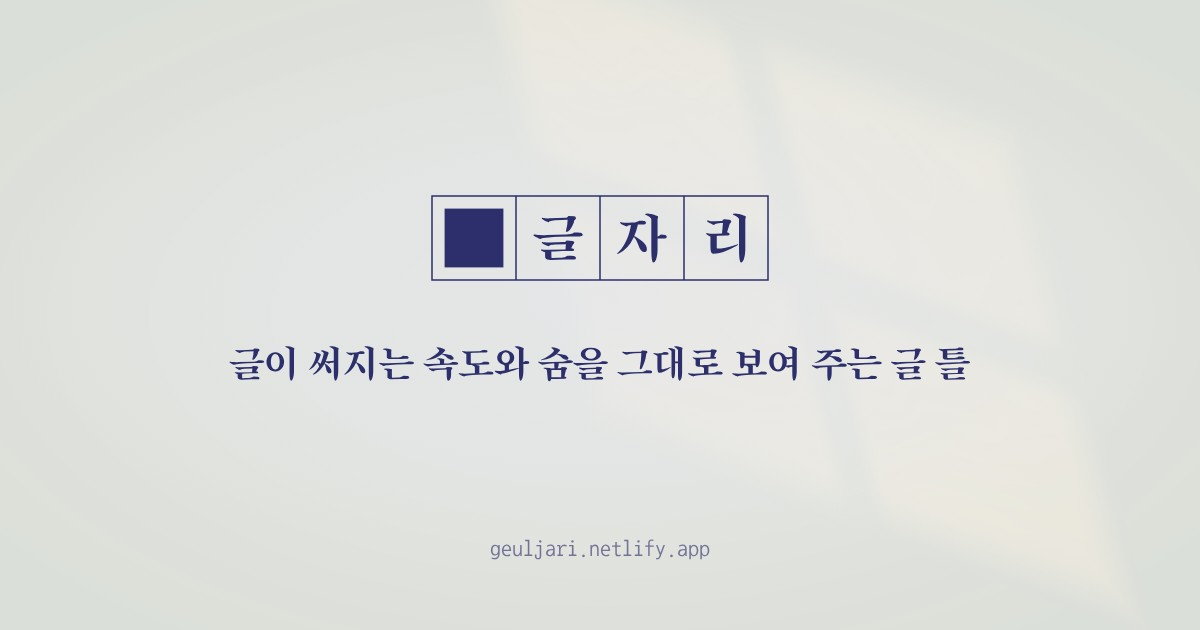
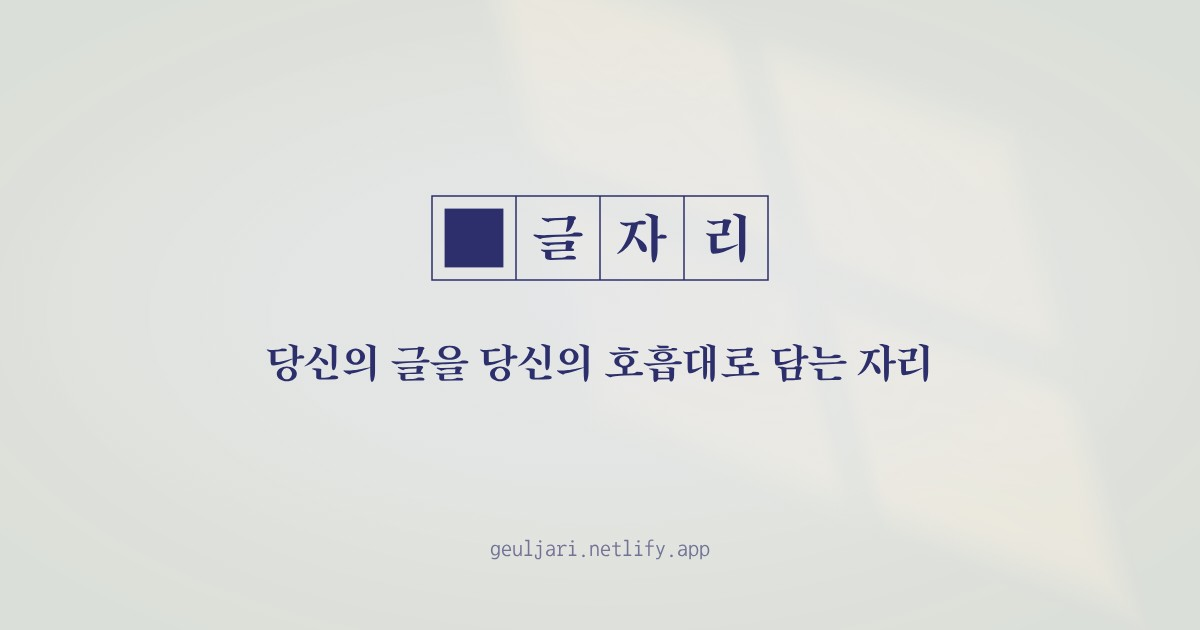
사이트 소개 문구를 '당신의 글을 당신의 호흡대로'로
- 제목·og 제목: 글자리 · 당신의 글을 당신의 호흡대로
- 설명·og 설명·구조화 데이터·noscript: 호흡대로 읽히도록 연출하는 글로그 편집기
- 사이트 카드 문구: 당신의 글을 당신의 호흡대로 담는 자리

Claude-Session: https://claude.ai/code/session_01ULBovWgP7trVUQkayYxnRh

Changed region(s): [[0.185, 0.5429, 0.8017, 0.6032]]

diff --git a/index.html b/index.html
@@ -3,8 +3,8 @@
 <head>
 <meta charset="utf-8">
 <meta name="viewport" content="width=device-width, initial-scale=1, viewport-fit=cover, interactive-widget=resizes-content">
-<title>글자리 · 쓰는 대로 움직이는 글로그 편집기</title>
-<meta name="description" content="글이 써지는 속도와 숨을 그대로 보여 주는 글 틀이에요. 글을 쓰고 쪽을 나누고 바탕·넘김·효과를 골라 글로그로 편집한 뒤 링크 하나로 발행해요.">
+<title>글자리 · 당신의 글을 당신의 호흡대로</title>
+<meta name="description" content="당신의 글이 당신의 호흡대로 읽히도록 쪽과 쉼, 넘김과 효과를 연출하는 글로그 편집기예요. 링크 하나로 발행해 공유해요.">
 <link rel="canonical" href="https://geuljari.netlify.app/">
 <link rel="icon" href="favicon.svg" type="image/svg+xml">
 <link rel="apple-touch-icon" href="apple-touch-icon.png">
@@ -13,18 +13,18 @@
 <meta property="og:site_name" content="글자리">
 <meta property="og:locale" content="ko_KR">
 <meta property="og:url" content="https://geuljari.netlify.app/">
-<meta property="og:title" content="글자리 · 쓰는 대로 움직이는 글로그 편집기">
-<meta property="og:description" content="글이 써지는 속도와 숨을 그대로 보여 주는 글 틀이에요. 글을 쓰고 꾸며 링크 하나로 발행해요.">
+<meta property="og:title" content="글자리 · 당신의 글을 당신의 호흡대로">
+<meta property="og:description" content="당신의 글이 당신의 호흡대로 읽히도록 쪽과 쉼, 넘김과 효과를 연출하는 글로그 편집기예요. 링크 하나로 발행해 공유해요.">
 <meta property="og:image" content="https://geuljari.netlify.app/og.jpg">
 <meta property="og:image:type" content="image/jpeg">
 <meta property="og:image:width" content="1200">
 <meta property="og:image:height" content="630">
-<meta property="og:image:alt" content="글자리 로고와 '글이 써지는 속도와 숨을 그대로 보여 주는 글 틀'">
+<meta property="og:image:alt" content="글자리 로고와 '당신의 글을 당신의 호흡대로 담는 자리'">
 <meta name="twitter:card" content="summary_large_image">
 <script type="application/ld+json">
 {"@context":"https://schema.org","@graph":[
 {"@type":"WebSite","name":"글자리","alternateName":"geuljari","url":"https://geuljari.netlify.app/","inLanguage":"ko"},
-{"@type":"WebApplication","name":"글자리","url":"https://geuljari.netlify.app/","inLanguage":"ko","applicationCategory":"DesignApplication","operatingSystem":"Web","image":"https://geuljari.netlify.app/og.jpg","description":"글이 써지는 속도와 숨을 그대로 보여 주는 글로그 편집기. 글을 쓰고 쪽을 나누고 바탕·넘김·효과를 골라 링크 하나로 발행해요.","offers":{"@type":"Offer","price":"0","priceCurrency":"KRW"}}
+{"@type":"WebApplication","name":"글자리","url":"https://geuljari.netlify.app/","inLanguage":"ko","applicationCategory":"DesignApplication","operatingSystem":"Web","image":"https://geuljari.netlify.app/og.jpg","description":"당신의 글이 당신의 호흡대로 읽히도록 쪽과 쉼, 넘김과 효과를 연출하는 글로그 편집기예요. 링크 하나로 발행해 공유해요.","offers":{"@type":"Offer","price":"0","priceCurrency":"KRW"}}
 ]}
 </script>
 <link rel="preconnect" href="https://fonts.googleapis.com">
@@ -55,7 +55,7 @@
 <script src="index.js" defer></script>
 </head>
 <body data-step="write">
-<noscript><p class="noscript">글자리는 쓰는 대로 움직이는 글로그 편집기예요. 글을 쓰고 쪽을 나누고 바탕·넘김·효과를 골라 편집한 뒤 링크 하나로 발행해요. 편집실은 자바스크립트를 켜야 열려요.</p></noscript>
+<noscript><p class="noscript">글자리는 당신의 글이 당신의 호흡대로 읽히도록 연출하는 글로그 편집기예요. 쪽을 나누고 바탕·넘김·효과를 골라 편집한 뒤 링크 하나로 발행해요. 편집실은 자바스크립트를 켜야 열려요.</p></noscript>
 
 <header class="top">
   <button type="button" class="logo" id="home" aria-label="글자리, 글로">

diff --git a/scripts/site-card.js b/scripts/site-card.js
@@ -2,12 +2,12 @@
 (function () {
   'use strict';
   const W = 1200, H = 630;
-  const LINE = '글이 써지는 속도와 숨을 그대로 보여 주는 글 틀';
+  const LINE = '당신의 글을 당신의 호흡대로 담는 자리';
   const HOST = 'geuljari.netlify.app';
   window.drawSiteCard = async function () {
     const T = window.GeulTune;
     T.useReaderTheme(document, T.normalize({}).theme);
-    await document.fonts.load('400 40px "Song Myung"', LINE);
+    await document.fonts.load('400 44px "Song Myung"', LINE);
     await document.fonts.load('400 22px "Nanum Gothic Coding"', HOST);
     const c = document.createElement('canvas');
     c.width = W; c.height = H;
@@ -33,7 +33,7 @@
     ctx.fillStyle = ink;
     ctx.textAlign = 'center';
     ctx.textBaseline = 'middle';
-    ctx.font = '400 40px "Song Myung"';
+    ctx.font = '400 44px "Song Myung"';
     ctx.fillText(LINE, W / 2, 364);
     ctx.globalAlpha = 0.62;
     ctx.font = '400 22px "Nanum Gothic Coding"';
